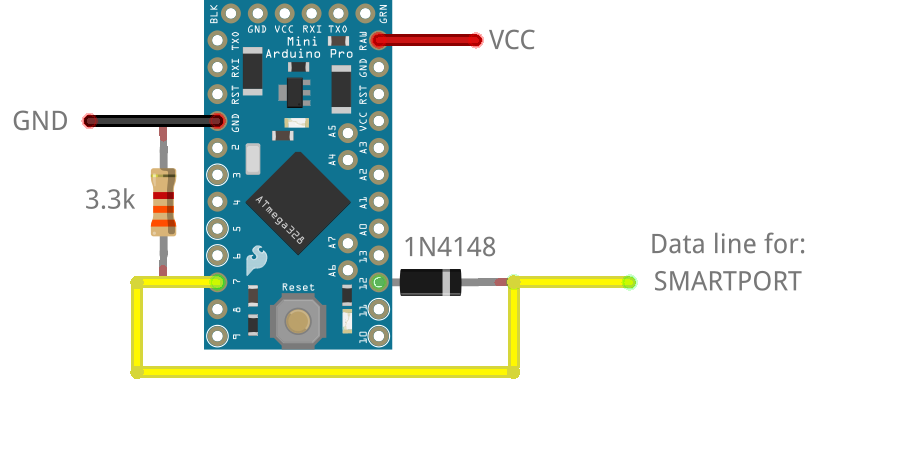
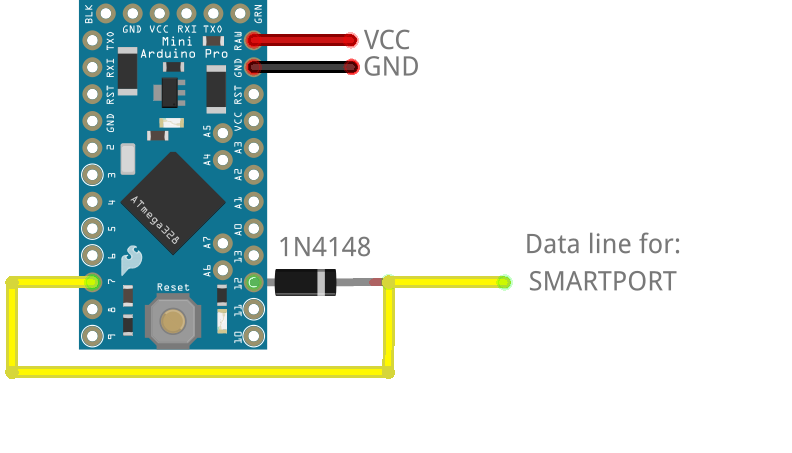
Remove pull down resistor

Changed region(s): [[0.0, 0.0, 0.5758, 0.8344], [0.6061, 0.5872, 0.8788, 0.649], [0.6667, 0.4945, 0.8788, 0.5563]]

diff --git a/README.md b/README.md
@@ -61,13 +61,13 @@ ATmega boards at 5v (16Mhz) may not read properly serial port when using ESC ser
 | PWM out | 10 | 10 | 7 | B6(A10) | 22 |
 | Rx Castle | 8 | 8 | 49 | C7 | 16 |
 | ESC Castle<sup>(1)</sup> | 2 & 10 | 2 & 22 | 45 & 48 | C8 & B6 | 2 & 6 |
-| Frsky Smartport, SBUS<sup>(4)</sup> | 7<sup>(1)</sup>  & 12<sup>(2)</sup> | 7<sup>(1)</sup>  & 12<sup>(2)</sup> | A15<sup>(1)</sup>  & D10<sup>(2)</sup> | B3<sup>(1)</sup>  & B4<sup>(2)</sup><br/>(15 & 16) | 1 |
+| Frsky Smartport, SBUS<sup>(4)</sup> | 7  & 12<sup>(2)</sup> | 7  & 12<sup>(2)</sup> | A15  & D10<sup>(2)</sup> | B3  & B4<sup>(2)</sup><br/>(15 & 16) | 1 |
 | Frsky D | 12 | 12 | D10 | B4(16) | 1 |
 | SRXL, IBUS, SB | RX & TX<sup>(2)</sup> | 12(RX1) & 11(TX1)<sup>(2)</sup> | 15(RX3) & 14(TX3)<sup>(2)</sup> | D2(RX1) & D3(TX1)<sup>(2)</sup> | 1 |
 | XBUS or sensor SDA | A4 | A4 | 20 | D1(2) | 18<sup>(3)</sup> |
 | XBUS or sensor SCL | A5 | A5 | 21 | D0(3) | 19<sup>(3)</sup> |
 
-(1) with 3.3k (or 4.7k) pull-up (Castle) or pull-down (Frsky, SBUS)  
+(1) with 3.3k pull up resistor  
 (2) diode 1N4148. Note the inverted orientation of the diode for Frsky and SBUS due to the inverted logic. Alternatively 1k resistor can be used instead  
 (3) If using i2c_t3 library connect I2C sensor to pins 23 (SDA1) and 22 (SCL1)  
 (4) Use ATmega 16Mhz or Teensy LC/3.x (If using ATmega 8Mhz, it is needed a signal inverter and connect it to UART)  
@@ -91,7 +91,7 @@ Depending on the receiver protocol connect to the Rx as follows
 
 1N4148 diode is preferred, but it can be substituted by 1k resistor
 
-<p align="center"><img src="./images/frsky_smartport.png" width="430"><br>
+<p align="center"><img src="./images/frsky_smartport.png" width="400"><br>
 <i>Frsky Smartport, SBUS (SBUS only ATmega 16Mhz)</i><br><br></p>
 
 <p align="center"><img src="./images/srxl_ibus_sbus_sb.png" width="460"><br>
